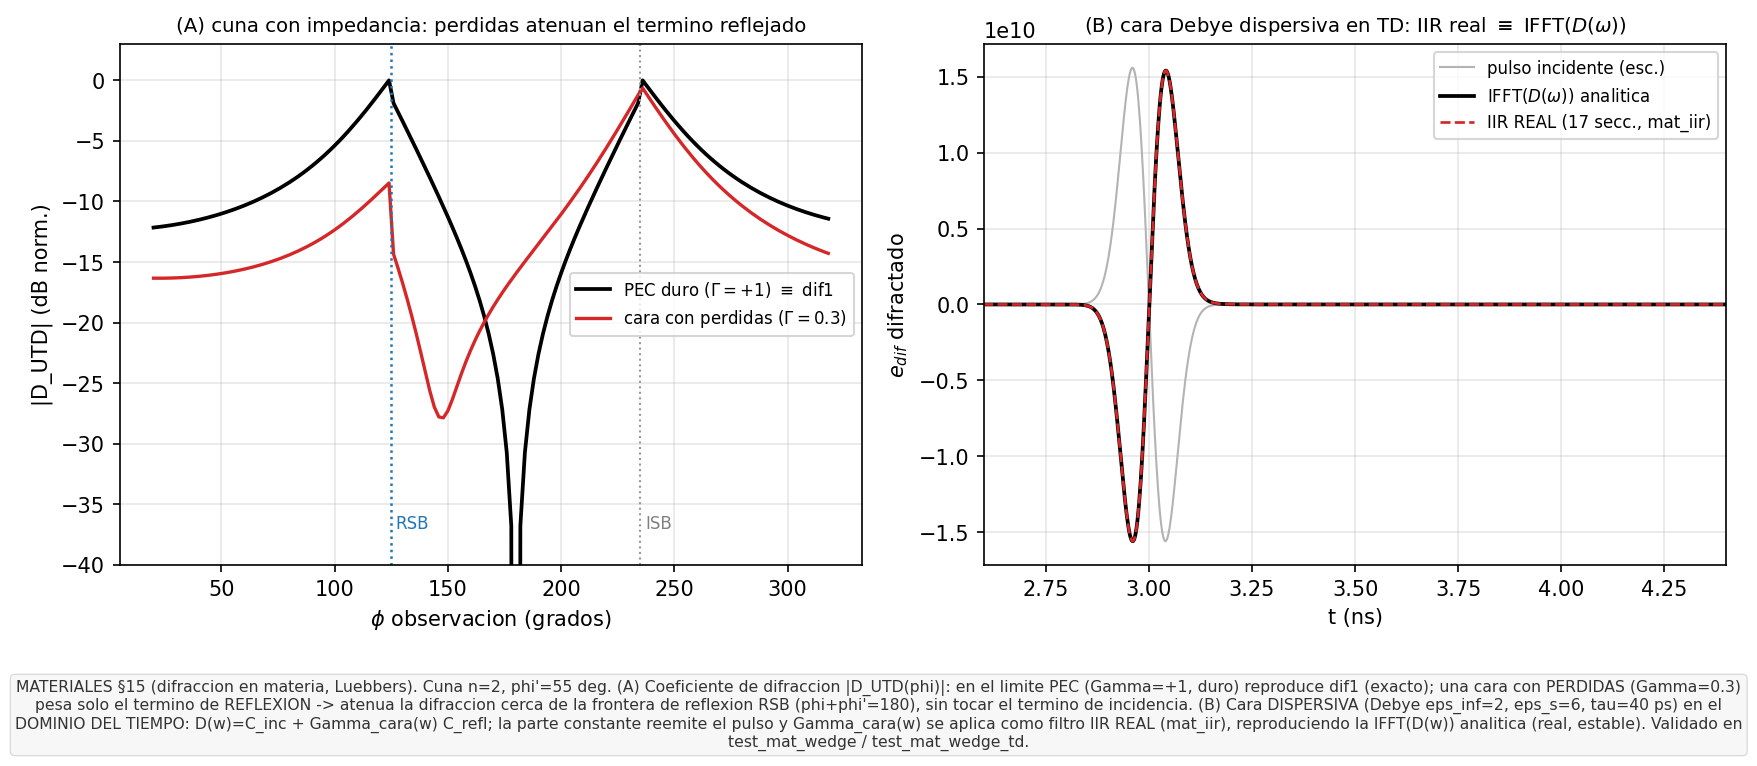
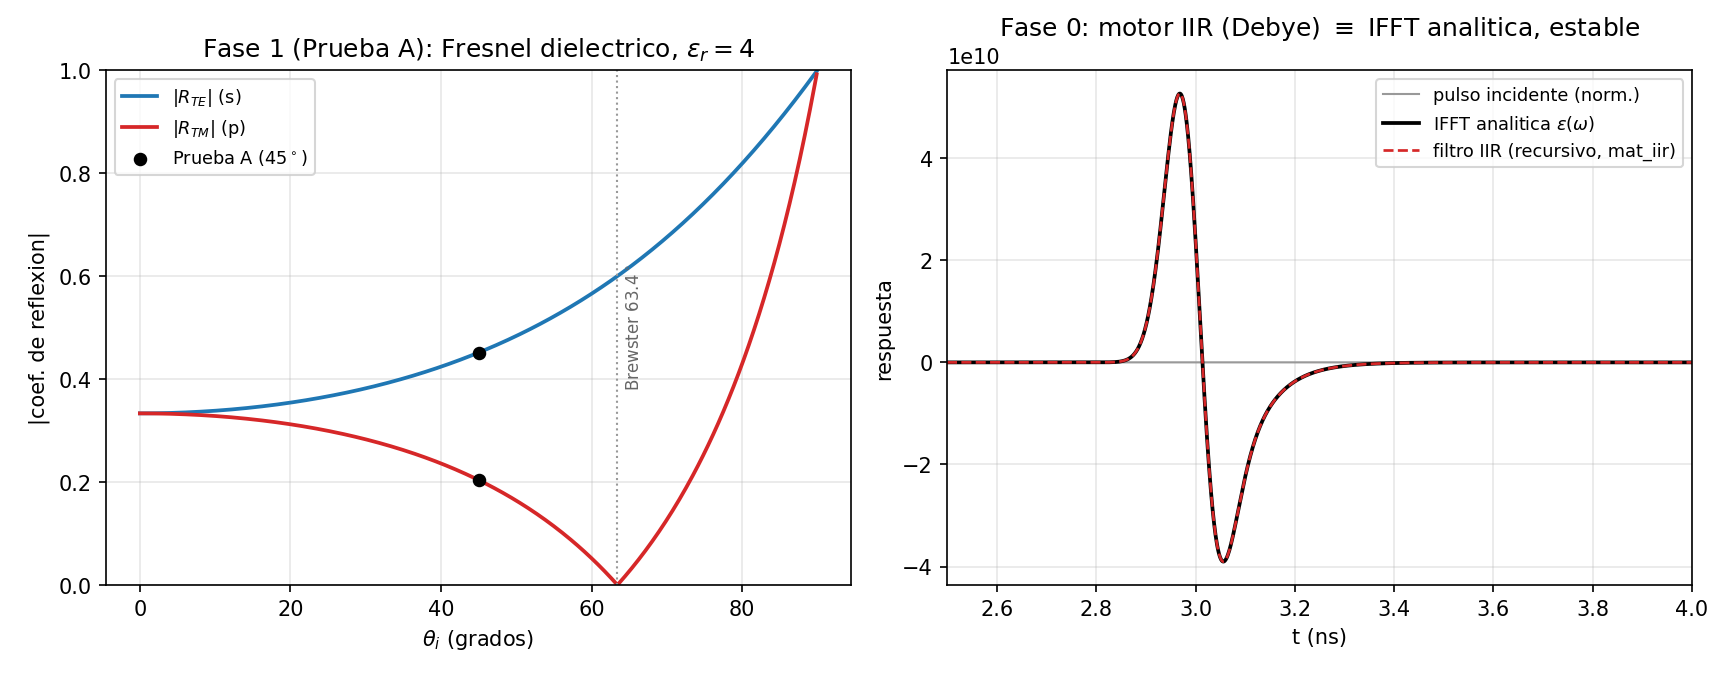
Rework TFM feature: highlight in projects index + full-width correct figures, cropped captions, HPC note

diff --git a/index.html b/index.html
@@ -342,9 +342,9 @@
     .featured-chips span b { color: #6ee7b7; font-weight: 700; }
 
     .featured-gallery {
-      display: grid;
-      grid-template-columns: 1fr 1fr;
-      gap: 18px;
+      display: flex;
+      flex-direction: column;
+      gap: 20px;
       margin-top: 24px;
       position: relative;
     }
@@ -354,7 +354,6 @@
       overflow: hidden;
       box-shadow: 0 4px 16px rgba(0,0,0,.25);
     }
-    .featured-gallery figure.span2 { grid-column: 1 / -1; }
     .featured-gallery img { width: 100%; height: auto; display: block; background: #fff; }
     .featured-gallery figcaption {
       padding: 12px 16px;
@@ -374,6 +373,45 @@
       font-size: 0.8rem;
       padding: 6px 12px;
       border-radius: 20px;
+    }
+    .featured-hpc {
+      margin-top: 22px;
+      padding: 16px 18px;
+      background: rgba(255,255,255,.05);
+      border: 1px solid rgba(255,255,255,.12);
+      border-radius: 10px;
+      font-size: 0.9rem;
+      color: #cbd5e1;
+      line-height: 1.65;
+      position: relative;
+    }
+    .featured-hpc b { color: #6ee7b7; }
+
+    /* ── Featured entry inside the Projects index ────────────────────── */
+    .toc-featured {
+      display: flex;
+      align-items: center;
+      gap: 16px;
+      padding: 18px 24px;
+      margin: 0 0 16px;
+      background: linear-gradient(135deg, #0f172a 0%, #17306b 60%, #1e3a6e 100%);
+      border: 1px solid rgba(147,197,253,.35);
+      border-radius: 14px;
+      color: #fff;
+      text-decoration: none;
+      box-shadow: 0 8px 26px rgba(15,23,42,.28);
+      transition: transform .18s, box-shadow .18s;
+    }
+    .toc-featured:hover { transform: translateY(-3px); box-shadow: 0 16px 40px rgba(15,23,42,.38); text-decoration: none; }
+    .toc-featured .tf-star { font-size: 1.9rem; line-height: 1; }
+    .toc-featured .tf-body { flex: 1; display: flex; flex-direction: column; gap: 3px; }
+    .toc-featured .tf-tag { font-size: 0.72rem; font-weight: 700; letter-spacing: .6px; text-transform: uppercase; color: #93c5fd; }
+    .toc-featured .tf-title { font-weight: 700; font-size: 1.06rem; line-height: 1.35; }
+    .toc-featured .tf-sub { color: #cbd5e1; font-size: 0.86rem; }
+    .toc-featured .tf-cta { color: #93c5fd; font-size: 0.86rem; font-weight: 600; white-space: nowrap; }
+    @media (max-width: 700px) {
+      .toc-featured { flex-direction: column; text-align: center; }
+      .toc-featured .tf-cta { white-space: normal; }
     }
 
     @media (max-width: 700px) {
@@ -427,60 +465,6 @@
 
 <main>
 
-  <section class="featured">
-    <span class="featured-tag">⭐ Master's Thesis · 2025/26</span>
-    <h2>High-Frequency Computational Electromagnetics in the Time Domain</h2>
-    <div class="featured-sub">A time-domain asymptotic scattering simulator — from Maxwell to radar imaging</div>
-    <p class="lead">
-      Given an incident <strong>pulse</strong> <em>p(t)</em>, the solver returns the <strong>scattered waveform</strong> <em>e(t)</em>
-      directly, via retarded-time integrals — <strong>without solving frequency by frequency</strong>. The full high-frequency
-      asymptotic chain is recast as closed operations on the pulse: <strong>Physical Optics + Shooting-and-Bouncing Rays</strong>,
-      edge diffraction (<strong>GTD / UTD / PTD / ITD</strong>), double- and slope-diffraction, and creeping waves. It is extended
-      to <strong>dielectric, lossy and dispersive materials</strong> applied as causal IIR filters. Every module is validated against
-      an independent exact reference, and the whole chain against <strong>real anechoic-chamber measurements</strong>.
-    </p>
-
-    <div class="featured-chips">
-      <span><b>26/26</b> core validation tests</span>
-      <span><b>8/8</b> material tests</span>
-      <span>vs <b>Mie · MoM · Sommerfeld · Fresnel–Snell</b></span>
-      <span>Experimental <b>INTA</b> agreement</span>
-      <span>Applications: <b>RCS · range-Doppler · ISAR</b></span>
-    </div>
-
-    <div class="featured-gallery">
-      <figure>
-        <img src="assets/tfm/tfm_mie.png" alt="PEC sphere RCS vs Mie series"/>
-        <figcaption><b>Convergence to the exact Mie series.</b> PEC-sphere backscatter RCS from 10 MHz to 100 GHz across the Rayleigh, resonance and optical regimes; the GO + creeping-wave model locks onto the exact Mie solution through the full high-frequency ripple (RMS 0.086).</figcaption>
-      </figure>
-      <figure>
-        <img src="assets/tfm/tfm_triedro.png" alt="Trihedral corner reflector triple-bounce RCS"/>
-        <figcaption><b>Multi-bounce RCS (SBR).</b> Trihedral corner reflector: the triple-bounce physical-optics RCS follows the analytical 12πa⁴/λ² law and matches the MoM reference; the residual is exactly the higher-order edge diffraction.</figcaption>
-      </figure>
-      <figure>
-        <img src="assets/tfm/tfm_inta_verify.png" alt="Experimental validation against INTA measurements"/>
-        <figcaption><b>Experimental validation.</b> PO + fringe (PTD) reproduces the RCS measured in the INTA anechoic chamber for a metallic prism (VV, 8 GHz) and a tricone (HH, 6 GHz) across the full angular sweep — the plain-PO curve (grey) misses the nulls that the fringe term recovers.</figcaption>
-      </figure>
-      <figure>
-        <img src="assets/tfm/tfm_materials.png" alt="Dispersive Debye material as a real IIR filter"/>
-        <figcaption><b>Dispersive materials in time.</b> A Debye (dispersive) face handled entirely in the time domain: a real 17-section IIR filter reproduces the analytic IFFT of the frequency-domain diffraction coefficient — causal, stable, real-valued output.</figcaption>
-      </figure>
-      <figure class="span2">
-        <img src="assets/tfm/tfm_isar.png" alt="ISAR image of an aircraft-shaped target"/>
-        <figcaption><b>ISAR imaging from time-domain range profiles.</b> The range-Doppler engine reconstructs the scattering centres of an aircraft-shaped target (fuselage + wings + tail) at 2.4 × 3.3 cm resolution — down-range from the range profile, cross-range from the rotational Doppler.</figcaption>
-      </figure>
-    </div>
-
-    <div class="featured-tools">
-      <img src="https://img.shields.io/badge/Python-3776AB?style=flat-square&logo=python&logoColor=white" alt="Python"/>
-      <img src="https://img.shields.io/badge/NumPy-013243?style=flat-square&logo=numpy&logoColor=white" alt="NumPy"/>
-      <img src="https://img.shields.io/badge/SciPy-8CAAE6?style=flat-square&logo=scipy&logoColor=white" alt="SciPy"/>
-      <img src="https://img.shields.io/badge/Numba-00A3E0?style=flat-square" alt="Numba"/>
-      <img src="https://img.shields.io/badge/CUDA-76B900?style=flat-square&logo=nvidia&logoColor=white" alt="CUDA"/>
-      <span class="featured-note">🔒 Private repository · to be released after the thesis defence</span>
-    </div>
-  </section>
-
   <h2>About me</h2>
   <div class="about-card">
     <p>I am a physics and mathematics student with a strong interest in <strong>computational methods for physical systems</strong>. My main research areas are:</p>
@@ -516,6 +500,16 @@
     <span><span class="dot" style="background:var(--c-nets)"></span> Complex Networks</span>
   </div>
 
+  <a class="toc-featured" href="#tfm">
+    <span class="tf-star">⭐</span>
+    <span class="tf-body">
+      <span class="tf-tag">Master's Thesis · 2025/26</span>
+      <span class="tf-title">High-Frequency Computational Electromagnetics in the Time Domain</span>
+      <span class="tf-sub">Time-domain scattering simulator — PO/SBR, GTD/UTD/PTD/ITD diffraction, materials, RCS &amp; ISAR imaging</span>
+    </span>
+    <span class="tf-cta">See highlights ↓</span>
+  </a>
+
   <div class="toc-grid">
     <a href="#vlasov">⚡ Collisionless Plasma · Vlasov–Maxwell</a>
     <a href="#mom">🌐 Computational Electromagnetics · Method of Moments</a>
@@ -536,6 +530,67 @@
     <a href="#pimc">⚛ Path Integral Monte Carlo · Quantum Mechanics</a>
     <a href="#mosfet-tcad">🖥 MOSFET TCAD · Drift-Diffusion Simulation</a>
   </div>
+
+  <section class="featured" id="tfm">
+    <span class="featured-tag">⭐ Master's Thesis · 2025/26</span>
+    <h2>High-Frequency Computational Electromagnetics in the Time Domain</h2>
+    <div class="featured-sub">A time-domain asymptotic scattering simulator — from Maxwell to radar imaging</div>
+    <p class="lead">
+      Given an incident <strong>pulse</strong> <em>p(t)</em>, the solver returns the <strong>scattered waveform</strong> <em>e(t)</em>
+      directly, via retarded-time integrals — <strong>without solving frequency by frequency</strong>. The full high-frequency
+      asymptotic chain is recast as closed operations on the pulse: <strong>Physical Optics + Shooting-and-Bouncing Rays</strong>,
+      edge diffraction (<strong>GTD / UTD / PTD / ITD</strong>), double- and slope-diffraction, and creeping waves. It is extended
+      to <strong>dielectric, lossy and dispersive materials</strong> applied as causal IIR filters. Every module is validated against
+      an independent exact reference, and the whole chain against <strong>real anechoic-chamber measurements</strong>.
+    </p>
+
+    <div class="featured-chips">
+      <span><b>26/26</b> core validation tests</span>
+      <span><b>8/8</b> material tests</span>
+      <span>vs <b>Mie · MoM · Sommerfeld · Fresnel–Snell</b></span>
+      <span>Experimental <b>INTA</b> agreement</span>
+      <span>Applications: <b>RCS · range-Doppler · ISAR</b></span>
+    </div>
+
+    <div class="featured-gallery">
+      <figure>
+        <img src="assets/tfm/tfm_mie.png" alt="PEC sphere RCS converging to the Mie series"/>
+        <figcaption><b>Convergence to the exact Mie series.</b> PEC-sphere backscatter RCS over six decades of frequency (electrical size ka up to ~150). Refining the time sampling N<sub>t</sub> pushes the agreement of the time-domain Physical Optics (TD-PO) with the exact Mie solution further into the optical regime.</figcaption>
+      </figure>
+      <figure>
+        <img src="assets/tfm/tfm_triedro.png" alt="Trihedral corner reflector multi-bounce RCS"/>
+        <figcaption><b>Multi-bounce RCS via Shooting-and-Bouncing Rays.</b> Trihedral corner reflector: adding 1st, 2nd and 3rd-order bounces, the PO backscatter climbs to the analytical triple-bounce law σ = 12πa⁴/λ² and matches the MoM reference — the single- and double-bounce terms alone fall far short.</figcaption>
+      </figure>
+      <figure>
+        <img src="assets/tfm/tfm_inta_verify.png" alt="Experimental validation against INTA measurements"/>
+        <figcaption><b>Experimental validation.</b> PO + fringe (PTD) reproduces the RCS measured in the INTA anechoic chamber for a metallic prism (VV, 8 GHz) and a tricone (HH, 6 GHz) across the full angular sweep — the plain-PO curve (grey) misses the nulls that the fringe term recovers.</figcaption>
+      </figure>
+      <figure>
+        <img src="assets/tfm/tfm_materials.png" alt="Dispersive Debye material handled as a recursive IIR filter"/>
+        <figcaption><b>Dispersive materials — the IIR engine.</b> Left: Fresnel reflection coefficients of a dielectric face. Right: the core of <code>mat_iir</code> — a dispersive (Debye) permittivity applied as a recursive real IIR filter reproduces the analytic IFFT of ε(ω) exactly, in the time domain and unconditionally stable.</figcaption>
+      </figure>
+      <figure>
+        <img src="assets/tfm/tfm_isar.png" alt="ISAR image of an aircraft-shaped target"/>
+        <figcaption><b>ISAR imaging from time-domain range profiles.</b> The range-Doppler engine reconstructs the scattering centres of an aircraft-shaped target (fuselage + wings + tail) at 2.4 × 3.3 cm resolution — down-range from the range profile, cross-range from the rotational Doppler.</figcaption>
+      </figure>
+    </div>
+
+    <p class="featured-hpc">
+      <b>⚙ HPC.</b> The heavy kernels — ray tracing, PO surface integrals and the diffraction sweeps — are JIT-compiled with
+      <b>Numba</b> and offloaded to the GPU through <b>CUDA</b>. A full angular-and-frequency RCS sweep of an electrically large
+      target therefore runs in seconds on a single workstation rather than hours, which is what makes the experimental validation
+      and the ISAR imaging above tractable.
+    </p>
+
+    <div class="featured-tools">
+      <img src="https://img.shields.io/badge/Python-3776AB?style=flat-square&logo=python&logoColor=white" alt="Python"/>
+      <img src="https://img.shields.io/badge/NumPy-013243?style=flat-square&logo=numpy&logoColor=white" alt="NumPy"/>
+      <img src="https://img.shields.io/badge/SciPy-8CAAE6?style=flat-square&logo=scipy&logoColor=white" alt="SciPy"/>
+      <img src="https://img.shields.io/badge/Numba-00A3E0?style=flat-square" alt="Numba"/>
+      <img src="https://img.shields.io/badge/CUDA-76B900?style=flat-square&logo=nvidia&logoColor=white" alt="CUDA"/>
+      <span class="featured-note">🔒 Private repository · to be released after the thesis defence</span>
+    </div>
+  </section>
 
   <div class="project" id="vlasov" style="margin-top:36px;">
     <div class="project-inner">
